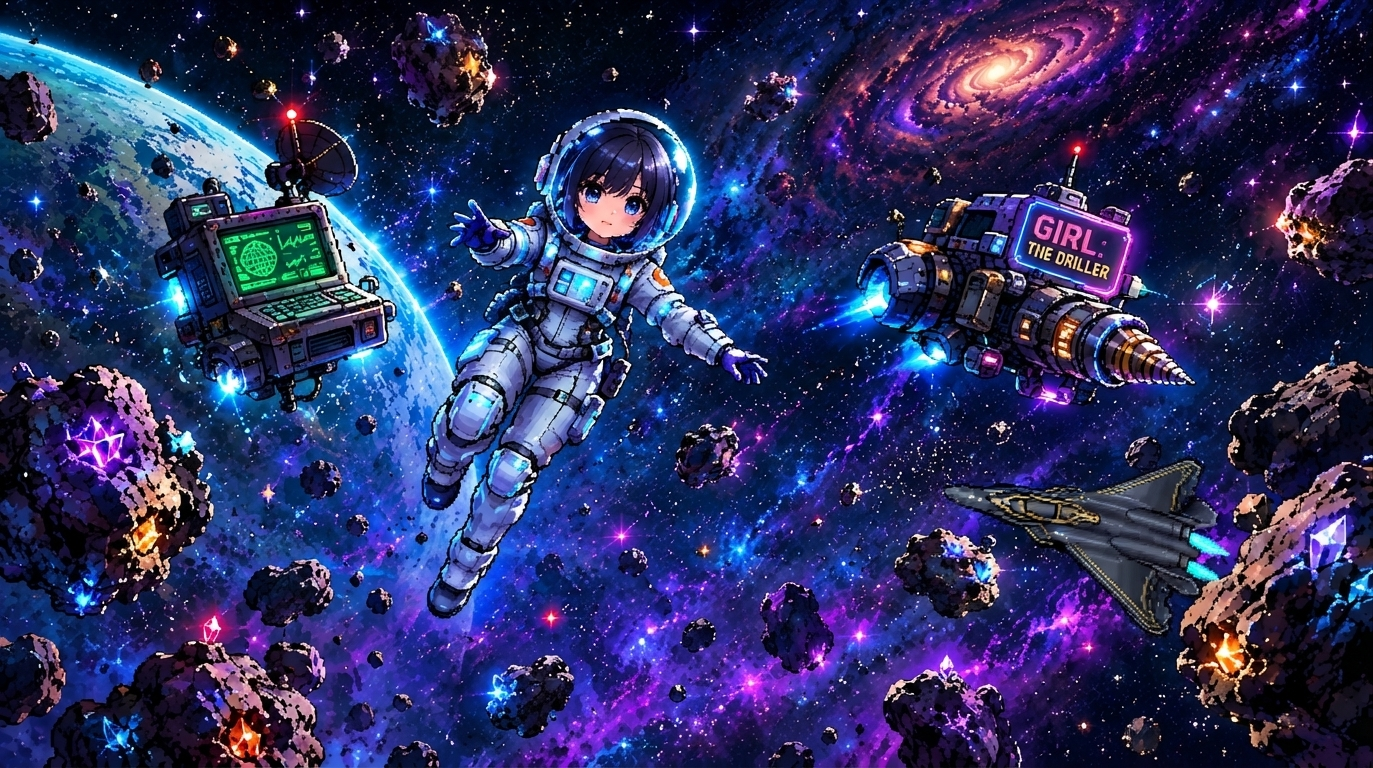
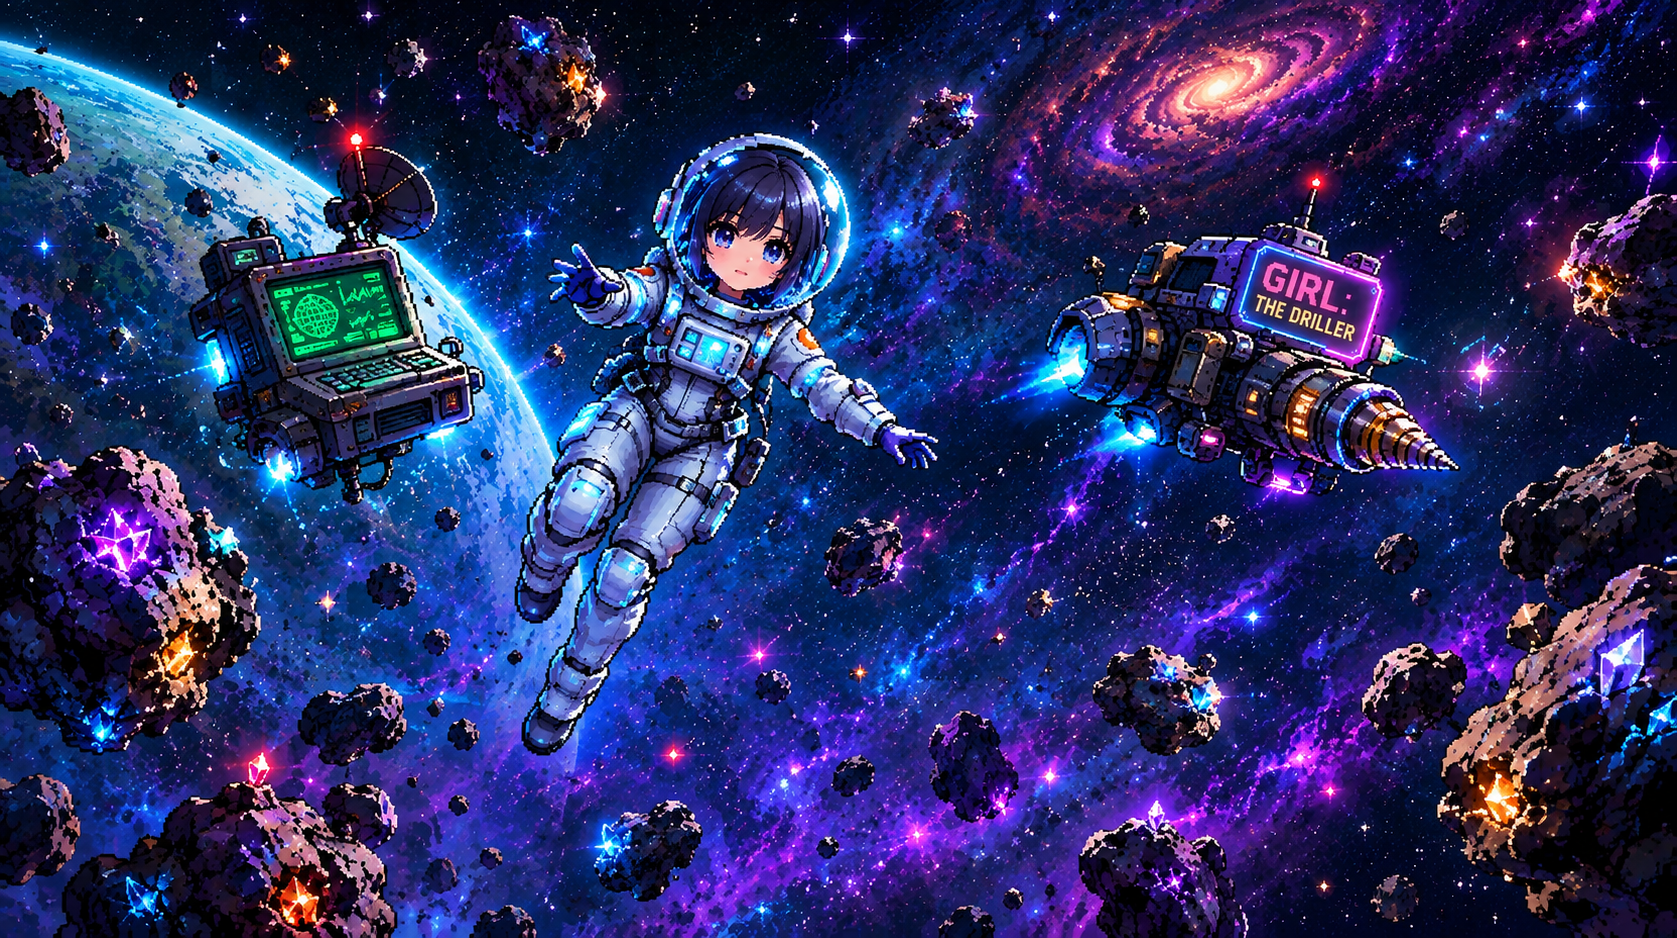
Add files via upload

diff --git a/girl-the-driller.html b/girl-the-driller.html
@@ -3076,35 +3076,7 @@ const STORY_IMAGES = {
     // height (no size popping between frames) using a UNIFORM scale on both axes (no stretch/
     // squash - aspect ratio is preserved exactly).
     const girlFrameBBoxes = [];
-    // --- GIRL VISIBLE-SIZE REFERENCE: DERIVED FROM THE SMALLEST DESTROYABLE OBJECT ---
-    // The Girl must read as a small miner among much larger space rocks, so her target height
-    // is computed FROM the smallest destroyable object's actual visible size (never a guessed
-    // pixel value) rather than set independently. Destroyable-object visible size is computed
-    // in produceAsteroidNode() as `radius * 2 * objectScale` (see ast.radius/ast.objectScale
-    // and the `let drawSize = ast.radius * 2 * (ast.objectScale || 1);` draw-time usage), where:
-    //   - radius = (Math.random() * 25 + 30) * tierMultiplier, so the smallest possible base
-    //     radius roll (before any tier multiplier) is 30 - see produceAsteroidNode()'s `radius`
-    //     line.
-    //   - the 'weak' tier (the smallest tier) multiplies that radius DOWN by 0.85 - also from
-    //     produceAsteroidNode()'s `radius` line.
-    //   - objectScale is OBJECT_DEFS[n].scale, the per-object visual-normalization multiplier
-    //     (see the OBJECT_DEFS array above) - the smallest of which is used here.
-    // Multiplying these together gives the smallest visible diameter/height any destroyable
-    // object can ever spawn at. These constants mirror produceAsteroidNode()'s real formula
-    // exactly, so this reference always tracks the actual smallest object in the game world.
-    const SMALLEST_OBJECT_MIN_BASE_RADIUS = 30; // matches produceAsteroidNode()'s radius-roll floor
-    const SMALLEST_OBJECT_WEAK_TIER_MULT = 0.85; // matches produceAsteroidNode()'s weak-tier radius multiplier
-    const SMALLEST_OBJECT_MIN_SCALE = Math.min(...OBJECT_DEFS.map(def => def.scale)); // smallest OBJECT_DEFS visual scale
-    // Smallest possible destroyable-object visible diameter/height (weak tier, minimum radius roll, smallest-scaled object art).
-    const SMALLEST_OBJECT_VISIBLE_HEIGHT = SMALLEST_OBJECT_MIN_BASE_RADIUS * SMALLEST_OBJECT_WEAK_TIER_MULT * 2 * SMALLEST_OBJECT_MIN_SCALE;
-    // Girl's in-world pixel target height: ~88% of the smallest destroyable object's visible
-    // height (within the requested 80-95% range), so she reads as clearly smaller than even the
-    // smallest space rock on screen, on every device/resolution (this is a game-world scale
-    // relationship, not a per-device pixel value). girlBaseScale below applies the same
-    // multiplier to both width and height, so her aspect ratio/proportions stay untouched; her
-    // collision radius, movement, and every other gameplay value are separate constants and are
-    // unaffected by this.
-    const GIRL_TARGET_HEIGHT = SMALLEST_OBJECT_VISIBLE_HEIGHT * 0.88;
+    const GIRL_TARGET_HEIGHT = 128; // in-world pixel height of the girl's visible art. Balance pass: 116 read as slightly too small/lacking presence, so this nudges her up a bit further (was 78 originally, then 116) - still purely a uniform render-scale change (girlBaseScale below applies the same multiplier to both width and height, so her aspect ratio/proportions are completely untouched; her collision radius, movement, and every other gameplay value are separate constants and are unaffected by this).
     let girlBaseScale = null; // set once every frame's bbox is known; null until then (draw() falls back to the old fixed box so nothing errors/pops before it's ready)
     // Scans a loaded image's alpha channel and returns the tight bounding box {x,y,width,height}
     // of its non-transparent pixels.
@@ -5168,10 +5140,8 @@ const STORY_IMAGES = {
     const playerShip = {
         // drawWidth/drawHeight below are only the fallback used for the brief instant before the
         // async visible-bbox measurement finishes (see GIRL_TARGET_HEIGHT/finalizeGirlScale
-        // above) - derived directly from GIRL_TARGET_HEIGHT (keeping the same ~36:78 width:height
-        // aspect ratio the sprite's tight bbox measures out to) so this fallback box never pops
-        // to a different, larger size once the real measurement lands.
-        x: 0, y: 0, lastX: 0, lastY: 0, distanceMoved: 0, radius: 25, drawWidth: GIRL_TARGET_HEIGHT * (36 / 78), drawHeight: GIRL_TARGET_HEIGHT, drawAngle: 0, velocityX: 0, velocityY: 0, friction: 0.92, currentFrameIndex: 0, frameTimer: 0, isThrusting: false,
+        // above) - already sized close to the final ~92-tall target so there's no visible pop.
+        x: 0, y: 0, lastX: 0, lastY: 0, distanceMoved: 0, radius: 25, drawWidth: 36, drawHeight: 78, drawAngle: 0, velocityX: 0, velocityY: 0, friction: 0.92, currentFrameIndex: 0, frameTimer: 0, isThrusting: false,
         // --- DASH STATE ---
         isDashing: false, dashDirX: 0, dashDirY: 1, dashDurationFrames: 0, dashCooldownFrames: 0, dashGhostSpawnTimer: 0,
         // dashReadyFlashFrames: brief "READY" flash above her head the instant the cooldown
